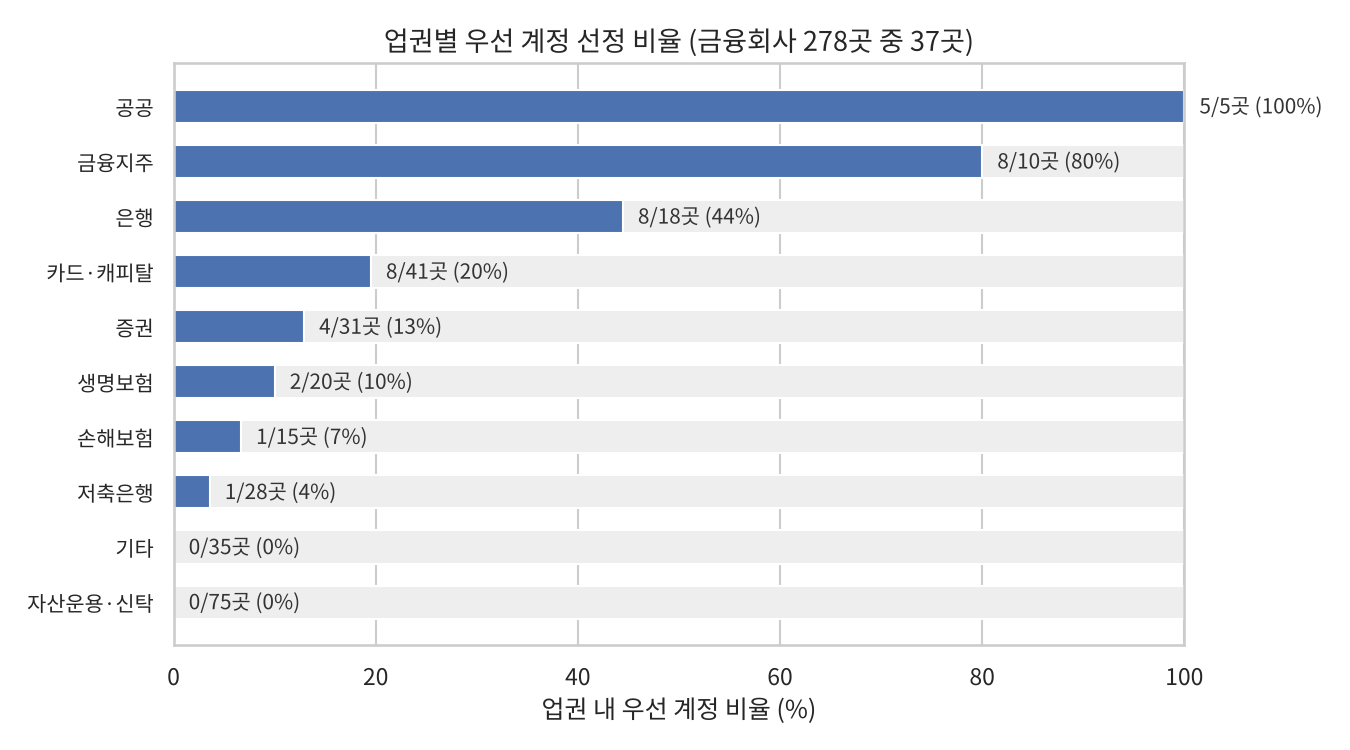
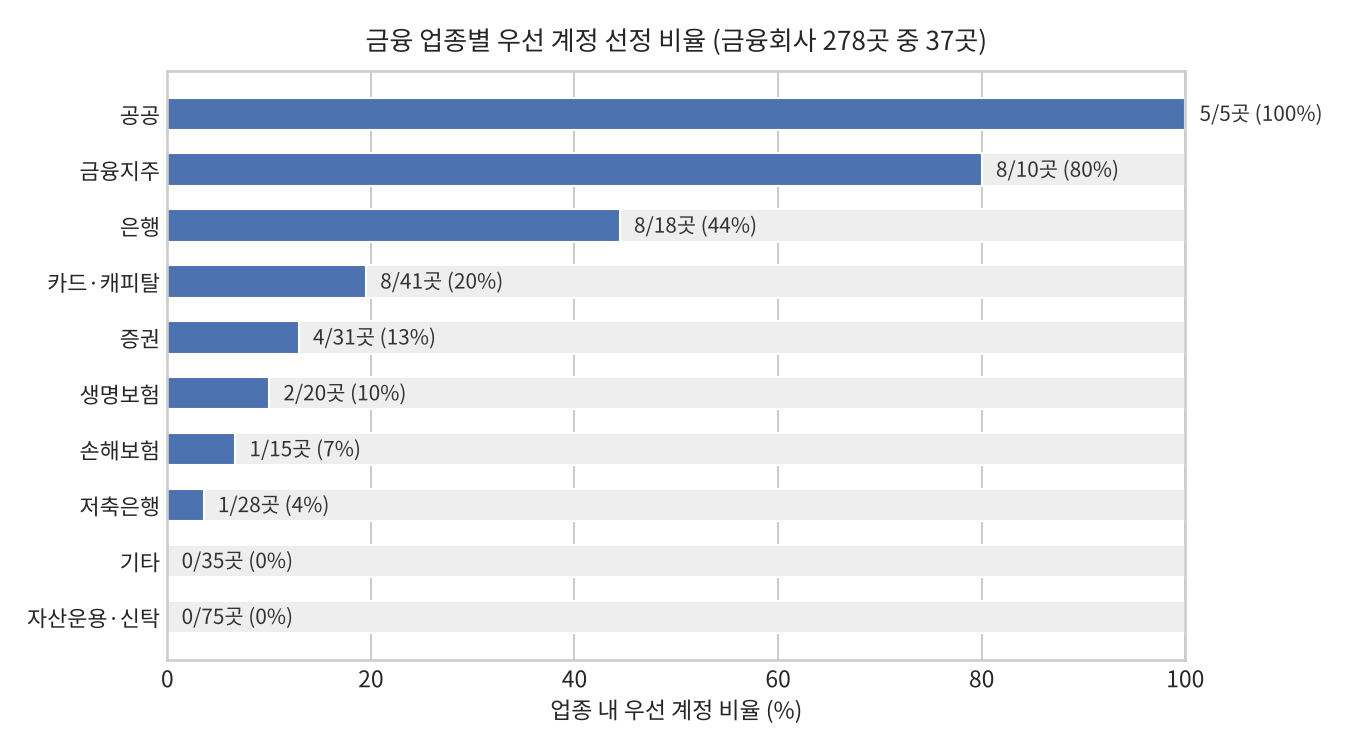
docs: README 용어 풀이·가설 검증 근거 보강, 금융 업종 표현 정리, 접촉 기준 설명 추가

Changed region(s): [[0.0, 0.0307, 0.9956, 0.9813], [0.8711, 0.8893, 0.9022, 0.92]]

diff --git a/README.md b/README.md
@@ -175,7 +175,7 @@
 <details>
 <summary>표 원문 보기</summary>
 
-| 업권 | 대상 | 자체 개발 | 외부 솔루션 | 공동 개발 | 공개 자료 없음 |
+| 금융 업종 | 대상 | 자체 개발 | 외부 솔루션 | 공동 개발 | 공개 자료 없음 |
 |---|---|---|---|---|---|
 | 생명·손해보험 대형 | 8곳 | 0곳 | 5곳 (삼성생명·한화생명·교보생명·삼성화재·DB손해보험) | 1곳 (메리츠화재–KT) | 2곳 |
 | 전업 카드사 | 8곳 | 0곳 | 2곳 (KB국민카드·BC카드) | 0곳 | 6곳 |
@@ -327,6 +327,7 @@
 - 2026-01-01 확정 기간 개시 → 2027-02-01 인증서 판매 시작 → 2027-09-30 첫 연례 신고·인증서 반납
 - 실측 배출량 미제출 시 기본값에 할증이 적용되며, 할증률은 2026년 10% → 2027년 20% → 2028년 30%로 확대됨
 - 하류 품목 확대: 2028-01-01 적용 목표이나 EU 3자 협상 중임 (1차 정치 협상 2026-10-20, 2차 2026-11-30 잠정, 연내 합의 목표) — 미정
+  - 3자 협상: EU 법안의 최종 문구를 EU 집행위원회(법안 제안 기관)·EU 이사회(27개 회원국 정부 대표)·유럽의회(EU 시민이 직접 선출한 의원)가 함께 합의하는 협상임. 세 기관이 제시한 대상 품목 수가 서로 달라(약 180개\~457개) 합의 전까지 범위가 확정되지 않음
 
 ### Ⅱ-1.2 금융 — 지속가능성(ESG) 공시 법제화와 금융배출량 공시
 
@@ -366,6 +367,7 @@
 
 ### Ⅱ-2.1 정부 보고와 EU 보고의 단위 차이
 
+- 정부 보고는 CBAM과 별개인 국내법 의무임 (배출권거래제·목표관리제)
 - 정부에 제출하는 배출량: 사업장 단위 총량이며 제3자 검증을 받음 (배출권거래제 할당대상업체 명세서·온실가스 목표관리업체 명세서)
 - EU CBAM에 제출하는 배출량: 제품 1톤당 내재 배출량임
 - 두 수치가 같은 원천 데이터에서 산출되었음을 대조·증명해야 하므로 출처와 배분 근거를 관리할 수요가 발생함
@@ -382,6 +384,7 @@
 ### Ⅱ-3.1 현황 — 제조사 배출량의 금융배출량 입력
 
 - 금융배출량 = 대출 비율(대출 잔액 ÷ 대출 기업 가치) × 대출 기업 배출량 (PCAF 산식)
+  - PCAF(Partnership for Carbon Accounting Financials, 탄소회계금융협의체): 금융회사가 대출·투자한 기업의 배출량 중 자기 몫을 계산하는 국제 표준(금융배출량 산정 표준)을 만드는 금융권 국제 협의체임. 사용한 배출 데이터의 품질을 1등급(검증된 실측)\~5등급(업종 평균 추정)으로 나눔
 - 따라서 제조사의 사업장 배출량은 그 제조사에 대출한 금융회사의 금융배출량 입력값이 됨
 - CBAM 대상 제조사 94곳 중 76곳이 금융회사 18곳과 직접 대출 거래를 하며, 산업은행 1곳이 58곳과 거래함
 
@@ -391,7 +394,7 @@
 
 - 요구 경로 8개: 시행 3 · 예정·정부 최종안 3 · 검토·미정 2
 - 제조사는 같은 탄소 데이터를 EU 수입자(CBAM 신고)·정부(배출량 명세서)·ESG 공시·원청 고객사·은행(대출 심사) 5곳에 제출함
-- 합계 7점 이상 제조사 35곳 중 32곳(91%)이 산업은행·수출입은행·기업은행과 거래함
+- 판매 우선순위 상위 제조사 35곳(Ⅲ-1 채점 결과 94곳 중 상위 37%) 중 32곳(91%)이 정책금융기관 3곳(산업은행·수출입은행·기업은행)과 거래함
 
 ![제조사와 은행 사이 탄소 데이터 요구 경로의 확대](figures/presentation/16_bank_data_demand.png)
 
@@ -402,22 +405,26 @@
 **① 가설과 판정 기준 (검증 전 확정)**
 
 - 가설: 은행의 녹색·전환금융 심사와 금융배출량 산정은 대출 기업(제조사)에게 검증 가능한 배출 데이터를 요구하거나 우대함
-- 확인 질문: 은행이 제조사의 검증 가능한 배출 데이터를 실제로 요구하는가
 - 판정 기준
   - 채택: 감독 당국 지침 또는 은행 2곳 이상에서 요구·우대가 확인됨
-  - 부분 채택: 요구는 존재하나 신용정보원 데이터베이스·외부 검토로 대체 가능함
+  - 부분 채택: 요구는 존재하나 다른 수단으로 대체할 수 있음
   - 기각: 요구·우대 사례 없음
 
 **② 검증**
 
-- 녹색여신 관리지침 제11조: 대출 기업으로부터 적합성 판단 근거자료를 징구함 → 요구 존재
-- 전환금융 가이드라인: 서약서·전환전략 실행계획 제출을 요구함 → 요구 존재
-- 감축 효과별 우대금리 차등: 적용 예정임
-- 대체 수단: 금융회사의 대리 판단·대출 기업 확인서·기후금융 웹포털·PCAF 추정치로 대체할 수 있음
+- 녹색여신 관리지침 제11조 (금융위원회·환경부·금융감독원, 2024-12)
+  - 녹색여신: 정부의 녹색분류체계(K-택소노미)가 친환경으로 인정한 활동(재생에너지 발전·저탄소 설비 전환 등)에 쓰이는 대출임
+  - 지침: 은행이 어떤 대출을 녹색여신으로 분류할지 판단하는 기준이며 은행이 자율로 적용함
+  - 제11조: 은행은 대출 기업으로부터 녹색 활동에 해당한다는 근거자료를 받아야 함 → 요구 존재
+  - 단서: 같은 지침이 적합성 판단은 은행이 대신하고, 환경 피해 배제·사회적 보호 기준은 대출 기업 확인서로 갈음하는 것을 허용함 → 대체 가능
+- 전환금융 가이드라인 (2026-02): 대출 기업에게 서약서·전환전략 실행계획 제출을 요구함 → 요구 존재
+  - 전환금융: 철강·시멘트처럼 탄소 배출이 많은 기업이 저탄소 공정으로 바꾸는 데 쓰이는 대출·투자임
+- 감축 효과별 우대금리 차등: 정부가 추진 중이며 시행 전임 → 우대 미확정
+- 은행 상품의 우대 조건: 온실가스 감축량을 금리 조건(성과 지표)으로 쓰는 대출 상품은 기업은행 1곳만 확인됨 → 은행 2곳 이상 기준 미충족
 
 **③ 판정 — 부분 채택**
 
-- 요구는 감독 지침과 가이드라인으로 존재하나 대체 수단이 있어 부분 채택으로 판정함
+- 요구는 감독 지침과 가이드라인으로 존재하나 지침이 은행의 대리 판단·확인서 대체를 허용하고, 우대 조건은 은행 1곳과 시행 전 제도에 그치므로 부분 채택으로 판정함
 - 결론 반영: 제안 문구를 은행 한 곳에 걸지 않고 "한 번 만든 탄소 데이터를 CBAM 신고·ESG 공시·은행 전환금융 심사에 함께 제출하는 체계"로 정함
 - 재판정 조건: 전환금융 실무 모범규준 최종안이 대출 기업 배출 자료의 제출·검증을 의무로 규정하면 채택으로 전환함
 
@@ -528,8 +535,7 @@
 
 **② 가설과 판정 기준 (검증 전 확정)**
 
-- 가설: CBAM 1차 업종 제조사 94곳의 과반은 탄소 데이터 거버넌스 솔루션(출처·변경 이력·품질을 관리하는 도구)의 도입이 공개 자료로 확인되지 않음
-- 확인 질문: 제조사의 탄소 데이터 근거 관리 층이 실제로 비어 있는가
+- 가설: CBAM 1차 업종 제조사 94곳의 과반은 탄소 데이터 근거 관리 층이 비어 있음 — 탄소 데이터 거버넌스 솔루션(출처·변경 이력·품질을 관리하는 도구)의 도입이 공개 자료로 확인되지 않음
 - 판정 기준
   - 채택: 도입 미확인 제조사(거버넌스 경쟁 부재 1점 이상)가 과반
   - 부분 채택: 과반이나 합계 점수 상위 3분의 1에서 도입 확정 제조사가 과반
@@ -558,8 +564,7 @@
 
 **② 가설과 판정 기준 (검증 전 확정)**
 
-- 가설: 구매 필요성(이중 보고 대조 부담 2점), 구매 여력(IT 투자 여력 1점 이상 — 같은 규모군 IT 투자액 상위 3분의 2), 진입 여지(거버넌스 경쟁 부재 1점 이상)를 동시에 충족하는 제조사가 1곳 이상 존재함
-- 확인 질문: 살 이유·살 돈·들어갈 자리를 모두 갖춘 제조사가 실제로 존재하는가
+- 가설: 살 이유(구매 필요성 — 이중 보고 대조 부담 2점)·살 돈(구매 여력 — IT 투자 여력 1점 이상, 같은 규모군 IT 투자액 상위 3분의 2)·들어갈 자리(진입 여지 — 거버넌스 경쟁 부재 1점 이상)를 모두 갖춘 제조사가 1곳 이상 존재함
 - 판정 기준: 채택 — 1곳 이상 / 기각 — 0곳
 
 **③ 검증**
@@ -598,7 +603,7 @@
 - 근거: 2027-02-01 인증서 판매와 2027-09-30 첫 연례 신고 이전에 EU 수입자의 실측 데이터 요청이 발생하며, 기본값 할증이 해마다 확대됨 (Ⅱ-1.1)
 - 규칙: EU 노출이 확인되었거나 신규인 계정은 첫 신고 전인 2026년 하반기, EU 노출이 축소·불명·미확인인 계정은 2027년에 접촉함
 - 2026년 하반기 8곳 (+ 접촉 보류 2곳): KG스틸 · 포스코 · 현대제철 · 태웅 · 현대비앤지스틸 · TCC스틸 · SK오션플랜트 · 세아베스틸
-- 2027년 7곳: SIMPAC · 고려제강 · 세아제강 · 남해화학 · 동국산업 · 대한제강 · 한일시멘트
+- 2027년 7곳 (EU 노출 축소 2 · 불명 3 · 미확인 2): SIMPAC · 고려제강 · 세아제강 · 남해화학 · 동국산업 · 대한제강 · 한일시멘트
 
 </details>
 
@@ -608,6 +613,7 @@
 ### Ⅲ-2.1 채점 대상 확정
 
 - 포함 규칙(네 층): 코스피 상장 금융사(연결자산 2조 원 이상) · 그 종속 금융회사 · 명단 밖 코스피 상장사의 종속 금융회사 · 비상장 비종속 금융회사(자산 2조 원 이상 — 대기업집단 소속·공공금융기관·독립·외국계)
+- 자산 2조 원 기준: ESG 공시 확대 일정의 마지막 단계(2028년 10조 → 2029년 5조 → 2030년 2조 원 검토)이므로, 이 선으로 자르면 10조·5조 원 이상 회사는 자동으로 포함됨. 회사별 공시 시작 연도(2028년 169 · 2029년 12 · 2030년 검토 15 · 알리오 7 · 대상 아님 47 · 지배회사 2조 미만 28)는 접촉 시기(Ⅲ-2.5)에 반영함
 - 제외: 포트폴리오가 없는 법인(보험대리점·손해사정·IT·대부업·신용정보사), 펀드·SPC·신탁 상품, 해외 법인 등
 - 층별 수집 순서와 결과
   - 코스피 상장 금융사 40곳
@@ -635,6 +641,14 @@
 </details>
 
 - Ⅰ-3.5 남은 질문과의 연결: '아직 체계를 갖추지 못한 금융사'를 공개 자료로 찾는 기준이 금융배출량 공시 공백임 — 공시가 없거나 범위·품질이 낮을수록 우선함
+- 공시 공백의 불이익
+  - 2026-10 기준 금융배출량 공시는 자율이므로 공시하지 않아도 법적 불이익은 없음
+  - 2031년부터 자산 10조 원 이상 상장 금융사(연결 종속회사 포함)는 사업보고서에 금융배출량을 공시해야 하며, 누락·허위 공시는 자본시장법상 제재(손해배상·행정제재) 대상이 됨. 추정치·대출 기업에서 받은 수치는 합리적 근거를 갖춰 충실히 공시한 경우에만 손해배상·행정책임이 면제됨 (Ⅱ-1.2)
+  - 비상장 공공금융기관(산업은행·수출입은행 등)은 자본시장법 공시 대상이 아니며, 공공기관 통합공시(알리오)의 금융배출량 공시 확대와 경영평가 연계가 예고됨
+- 자체 산정 체계
+  - 대출 기업의 배출량(공시값·정부 명세서·추정치)을 모아 PCAF 산식으로 대출 비율만큼 배분하고 자산군별 금융배출량을 계산·기록하는 금융회사 내부 시스템임
+  - 사례: 기업은행은 2020년부터 산정함 · 수출입은행은 2023년 PCAF 가입 후 7개 자산군을 자체 산정했고 전산 시스템을 구축 중임
+  - 정부가 산정 체계 자체를 승인·인증하는 제도는 공개 자료로 확인되지 않음. 제도상 인정 경로는 2030년부터 의무화 예정인 공시 수치의 제3자 인증(금융배출량 포함 여부·범위 미정)과, 2031년 이후 추정치를 합리적 근거로 공시했음을 입증해 받는 면책임
 - 불리한 근거: 신한·기업은행·수출입은행처럼 자체 산정 체계를 갖춘 곳도 있어, 공시 공백이 곧 '자체 체계 없음'을 의미하지는 않음
 
 ![금융회사 278곳의 기준별 점수 분포](figures/presentation/11_fin_criteria.png)
@@ -644,12 +658,11 @@
 **① 현황**
 
 - 금융배출량 공시는 2026-10 기준 자율이며, 정부 최종안 기준 2031년에 공시가 시작됨 (Ⅱ-1.2)
-- 신용정보원 금융배출량 플랫폼이 2026-02 대출 기준 1차 서비스를 시작해 수집 층을 담당함 (Ⅱ-1.2·Ⅱ-4.1)
+- 신용정보원 금융배출량 플랫폼(2026-02 대출 1차): 금융회사가 함께 쓰는 금융배출량 계산 도구임. 기업별 공시 배출량과 중소·비상장 추정치를 제공하고 PCAF 산식으로 자동 산출함. 자율 참고용이며 자산군(대출 → 전체)·이용 범위(은행권 → 전 금융권)를 넓힐 계획임 — 수집·산정 층 (Ⅱ-1.2·Ⅱ-4.1)
 
 **② 가설과 판정 기준 (검증 전 확정)**
 
 - 가설: 금융회사 278곳의 과반은 대출 기업 배출량 데이터가 부족하며(금융배출량 공시 공백 1점 이상), 신용정보원 금융배출량 플랫폼은 금융회사별 출처 구분(플랫폼 추정치와 대출 기업 실측치의 구분)·변경 이력·인증 대비 증빙을 담당하지 않음
-- 확인 질문: 신용정보원 금융배출량 플랫폼이 금융회사 내부의 근거 관리 층을 이미 채우고 있는가
 - 판정 기준
   - 채택: 공시 공백 1점 이상이 과반이고 플랫폼의 해당 영역 확대 공식 계획이 없음
   - 부분 채택: 공시 공백 조건만 충족
@@ -658,6 +671,9 @@
 **③ 검증**
 
 - 278곳의 금융배출량 공시 공백 점수를 집계하고(Ⅲ-2.2), 신용정보원 플랫폼의 해당 영역 확대 공식 계획 여부를 확인함 (확인 2026-10-07)
+  - 공시 공백 확인 경로: 금융그룹 단위(보고 단위 150개)로, 공시 가능성이 큰 곳(금융지주·PCAF 가입사·대형 보험·카드·증권·정책금융기관)부터 회사 보도자료·홈페이지, 국회 제출 자료, 신용평가사, 주요 언론에서 금융배출량 수치·커버리지·품질 등급을 찾음. 종속회사는 그룹 보고서 값을 적용함
+  - 결과 근거: 공시 근거 확인 109곳(근거 25건 — KB·신한·하나·우리·농협·JB·iM·IBK·주요 보험사 등, 그중 15곳은 측정 시스템·목표만 공개) · 미공시 확인 3곳(산업은행·KDB생명·산은캐피탈) · 근거를 찾지 못한 166곳은 미공시로 보아 2점을 줌
+  - 한계: 지속가능경영보고서 원문(PDF) 대조는 하지 못해 원문 대조 1순위 16곳으로 남김
 - 결과: 공시 공백 1점 이상 278곳 중 267곳(96.0%) · 보고 단위 150개 중 149개 · 우선 계정 37곳 중 35곳. 플랫폼의 해당 영역 확대 공식 계획 없음
 
 ![금융회사의 대출 기업 배출량 데이터 부족 비율](figures/presentation/12_fin_hypothesis_gap.png)
@@ -682,9 +698,9 @@
 
 <p align="center"><sub>점수 분포에 뚜렷한 단절이 없어 동점 집단을 가르지 않는 5점 선에서 37곳을 선정함</sub></p>
 
-![업권별 우선 계정 선정 비율](figures/presentation/15_fin_sector_rate.png)
+![금융 업종별 우선 계정 선정 비율](figures/presentation/15_fin_sector_rate.png)
 
-- 4단계 보고 단위 묶음: 금융그룹은 영업 접점이 지주·그룹 전산 자회사로 모이므로 계정을 보고 단위로 묶음
+- 같은 금융그룹의 계열사는 지주회사·그룹 IT 자회사가 영업 창구를 맡으므로 그룹당 한 번만 접촉해 중복 접촉을 피함 → 우선 계정 37곳의 접촉 단위는 23개임 (금융그룹 6개 · 단독 17곳)
 
 <p align="center"><img src="figures/presentation/tables/iii2_4_fin_units.png" width="100%" alt="Ⅲ-2.4 우선 계정 선정"></p>
 
@@ -756,8 +772,7 @@
 
 **② 가설과 판정 기준 (검증 전 확정)**
 
-- 가설: IBM watsonx.data intelligence는 탄소 데이터의 출처·계보 공백을 채울 수 있음
-- 확인 질문: 판매 제품이 제조사·금융회사의 탄소 데이터 흐름을 실제로 추적할 수 있는가
+- 가설: IBM watsonx.data intelligence는 제조사·금융회사의 탄소 데이터 흐름을 추적해 출처·계보 공백을 채울 수 있음
 - 판정 기준
   - 채택: 주요 구간의 자동 추적이 확인됨
   - 부분 채택: SQL·ETL 구간만 추적됨
@@ -1041,6 +1056,7 @@
 
 ### Ⅳ-2.3 10개 기업별 판매 제품 — 요약
 
+- 같은 CBAM 업종이라도 제조사마다 배출 규모, 공정 단계(제강·단조·압연·도금·소성), 등록 공장 수와 공장별 CBAM 해당 여부, 원재료 조달 방식(외부 매입 비중·단일 공급사·원산지 증빙), 공장 간 반제품 이동, 사용 중인 산정 도구가 달라 하나의 산정 틀로 일괄 처리할 수 없음 → 회사별로 수치의 출처와 배분 근거를 관리하는 거버넌스가 필요함
 - 순서: 접촉 연도 → 트랙 안 순위
 
 <p align="center"><img src="figures/presentation/tables/iv2_3_summary.png" width="100%" alt="Ⅳ-2.3 10개 기업별 판매 제품 — 요약"></p>
@@ -1090,7 +1106,7 @@
 
 - 판매 구조: 도입 → 확장 2단계 — 제조 2026\~2027년 도입·2028년 이후 확장, 금융 2029년 도입·2030년 이후 확장 (Essentials → Standard·Premium)
 - 셀링포인트: 책임을 대신 지는 도구가 아니라, 책임을 다했음을 증명하는 기록 — 같은 기록을 ESG 공시 면책 요건(2031년 이후)·제3자 인증(2030년 이후)·데이터 사고 시 관리 체계 입증에 사용함
-- 정부 플랫폼과의 관계: 산업통상자원부 공급망 탄소 데이터 스페이스는 연결 대상, 신용정보원 금융배출량 플랫폼은 데이터 출처이며 대체·경쟁 대상이 아님
+- 정부 플랫폼과의 관계: 산업통상자원부 공급망 탄소 데이터 스페이스는 연결 대상, 신용정보원 금융배출량 플랫폼은 데이터 출처이며 대체·경쟁 대상이 아님 — 플랫폼이 금융회사별 출처 구분·변경 이력·증빙 관리로 확대를 발표하면 재판정함 (Ⅲ-2.3)
 
 ### Ⅳ-2.6 결론
 
@@ -1133,7 +1149,7 @@
 | ESG 공시 법률 | 미정 — 정부 최종안 확정, 자본시장법 개정안 국회 계류 |
 | 제3자 인증 범위 | 미정 — 2030년 의무화 방침, 범위·수준은 법령 개정 과정에서 확정 |
 | 판매 제품의 공백 충족 가능 여부 | IBM 공식 문서 기준 부분 채택 — 실제 형태 데이터 판정은 시연 진행 중 (Ⅳ-1.2) |
-| 은행의 검증 가능한 배출 데이터 요구 | 대체 수단 존재 — 전환금융 실무 모범규준 확정 후 재판정 |
+| 은행의 검증 가능한 배출 데이터 요구 | 부분 채택 — 요구는 대체가 허용되고 우대는 은행 1곳뿐임. 전환금융 실무 모범규준 확정 후 재판정 |
 | 제조사·금융회사의 근거 관리 층 공백 | 공개 자료 범위의 판정 |
 | 추가 2곳(TCC스틸·중소기업은행) | 시연 대상이 아니므로 실제 형태 데이터 검증 없음 — 공개 자료 판정만 적용함 |
 | 은행 장부 품질 등급 | 차주 재무(회사 가치) 수집 전 판정값임 |
@@ -1186,7 +1202,7 @@
 ### C. 조사 원칙
 
 - 정확: 수치는 원문으로 확인하고, 원인 설명도 원문 확인 후에만 기재함
-- 심도: 배경(규제·업권 구조·소유 관계)까지 연계해 조사함
+- 심도: 배경(규제·금융 업종 구조·소유 관계)까지 연계해 조사함
 - 완벽: 대상 전체를 동일 기준으로 처리하고, 기준 변경 시 이미 판정한 계정에도 소급 적용함
 - 철저: 확인 사실·추정·미확인 사항을 구분 표시하고, 불리한 근거도 유리한 근거와 동일 비중으로 기재함
 - 최근 뉴스: 규제 일정·회사 변동은 기준일 직전 자료로 재확인하고, 과거 자료는 연도를 명시함
